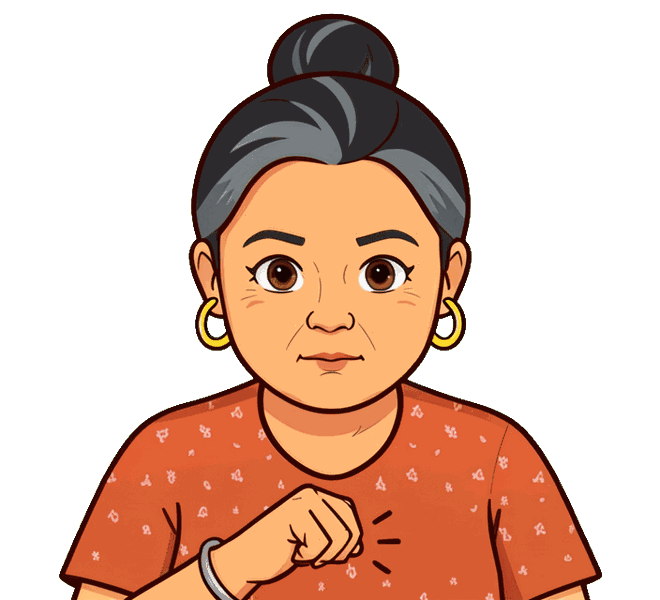
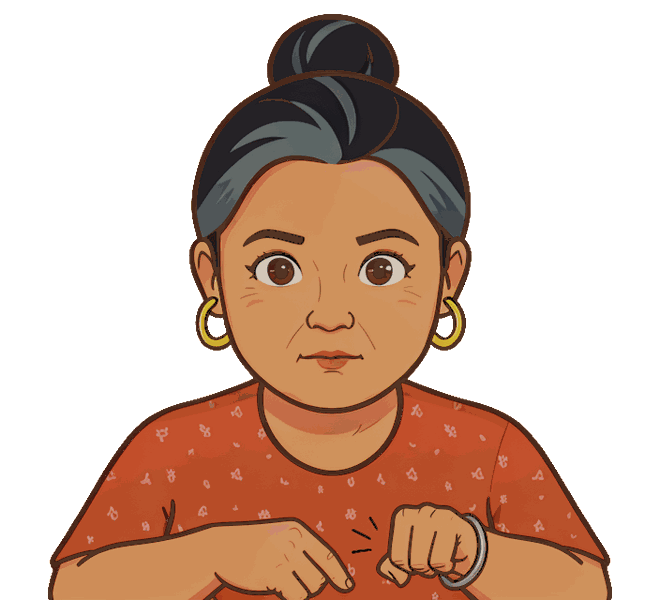
feat(guest): Aunt Som's pictures, second pass after review
Crumbs off the chin, the nod keeps her wrinkles and brown eyes, the
bracelet hand knocks, the piece in her hands is roti not cheese, night
tone and brown outline, blouse and hair matched across the four.

Claude-Session: https://claude.ai/code/session_018RUG1fmDb2fjqSaVRUVi5X

diff --git a/docs/v0-step2-aunt-som.md b/docs/v0-step2-aunt-som.md
@@ -115,19 +115,26 @@
   guidance 1, кадр 704×640. Стиль одобренных экранов задан словами (плоский рисунок, тёмно-коричневый контур,
   тёплые плоские цвета), а не правкой самого экрана: бабушка на `riverside-grandmother.jpg` — 130 px, из неё
   кадр «по плечи» не вырастить.
-- **Как выведены.** Картинка 1 — выбор из 18 проб (три описания × 6 seed), взят seed 104: на вид шестьдесят,
-  а не восемьдесят и не тридцать пять, голова самая крупная в кадре, серьги и браслет видны. 2 и 3 — правка
-  картинки 1 инструкцией (seed 58 и seed 7), 4 — правка картинки 3 (seed 7): так кусок роти и руки в 3 и 4
-  одни и те же, меняются только лицо и плечи. Лицо, причёска, блузка и место головы в кадре совпадают —
-  смена идёт без прыжка.
-- **Вырезка.** Фон просили ровный зелёный; вырезан по зелёному каналу со снятием каймы, затем 660×600
-  (ровно 1,1), 128 цветов. Размеры: `som-1.png` 37 КБ, `som-2.png` 38 КБ, `som-3.png` 36 КБ, `som-4.png` 41 КБ.
-  Сырые кадры, описания и скрипты — `runs/som-art/` (вне git).
+- **Как выведены (второй заход, после ревью).** Картинка 1 — выбор из 18 проб (seed 104), затем правка
+  инструкцией: веки подняты, руки расцеплены, пальцы одной руки у браслета другой. 2 — правка картинки 1
+  (seed 7): стучит рука с браслетом, вторая лежит, оба кулака у низа кадра. 3 — правка кадра с куском в руках
+  (seed 7): морщины сохранены, глаза карие, кусок — золотисто-коричневый квадратик без дырок. 4 — правка
+  прежнего «хруста» (seed 7): крошки с подбородка, щёк и шеи убраны, остались две у уголков рта и одна на
+  блузке. Три крошки на подбородке на 4 и кружки румянца на 3 закрашены цветом кожи руками (`paint.py`).
+  Силуэт головы на всех четырёх совпадает с точностью до 1 px — смена идёт без прыжка.
+- **Вырезка и цвет** (`cut2.py`). Фон просили ровный зелёный; вырезан по зелёному каналу со снятием каймы.
+  Блузка и волосы на 2–4 подогнаны к картинке 1 по среднему цвету; почти чёрный контур подтянут к
+  тёмно-коричневому; вся фигура умножена на тёплый тёмный тон (0,84 / 0,79 / 0,74) и на 14 % обесцвечена,
+  чтобы не стоять дневной в ночной сцене. Затем 660×600 (ровно 1,1), 128 цветов. Размеры: `som-1.png` 24 КБ,
+  `som-2.png` 24 КБ, `som-3.png` 25 КБ, `som-4.png` 27 КБ. Сырые кадры, описания и скрипты — `runs/som-art/`
+  (вне git).
 - **Что видно со стенда** (свой Chrome без звука, настоящие касания, 390×844 и 375×667, вечер с кивком и
   хрустом): 3 ↔ 4 различаются на обоих экранах — белая улыбка и закрытые глаза против открытых глаз и
-  сжатого рта, плюс плечи шире и выше. Крошки по отдельности на 375×667 не читаются — работают как тень
-  у рта. Стук (2) от ожидания (1) отличается слабее: поднятый взгляд и кулак внизу; его держит
-  вздрагивание тавы.
-- **Слабые места.** На картинке 3 лицо глаже и моложе, чем на 1 и 2, а блузка на 3–4 ярче; кусок в руках
-  похож на сыр больше, чем на роти; «кивок» — это спокойное лицо с набитой щекой, наклона головы нет
-  (наклон сдвинул бы голову, и смена пошла бы с прыжком).
+  сжатого рта, плюс плечи шире и выше. Стук (2) от ожидания (1) отличается слабее: поднятый взгляд и кулак
+  внизу; его держит вздрагивание тавы.
+- **Слабые места.** Стиль не совпадает с одобренными экранами: линия толще, глаза крупнее. Проба «тонкая
+  коричневая линия, приглушённые цвета» правкой картинки 1 (`runs/som-art/raw/f1-b-*.png`) стиль даёт, но
+  старит её до восьмидесяти и мутит фон — нужен отдельный заход. «Кивок» — спокойное лицо со сжатым ртом и
+  куском в руках: набитая щека почти не видна, наклона головы нет (наклон сдвинул бы голову, и смена пошла
+  бы с прыжком). Кусок на 3 квадратный, на 4 сложен углом, и по цвету близок к блузке. На 1 пальцы у
+  браслета, но не на нём. Браслет двойной и гладкий, а не «старый серебряный».
